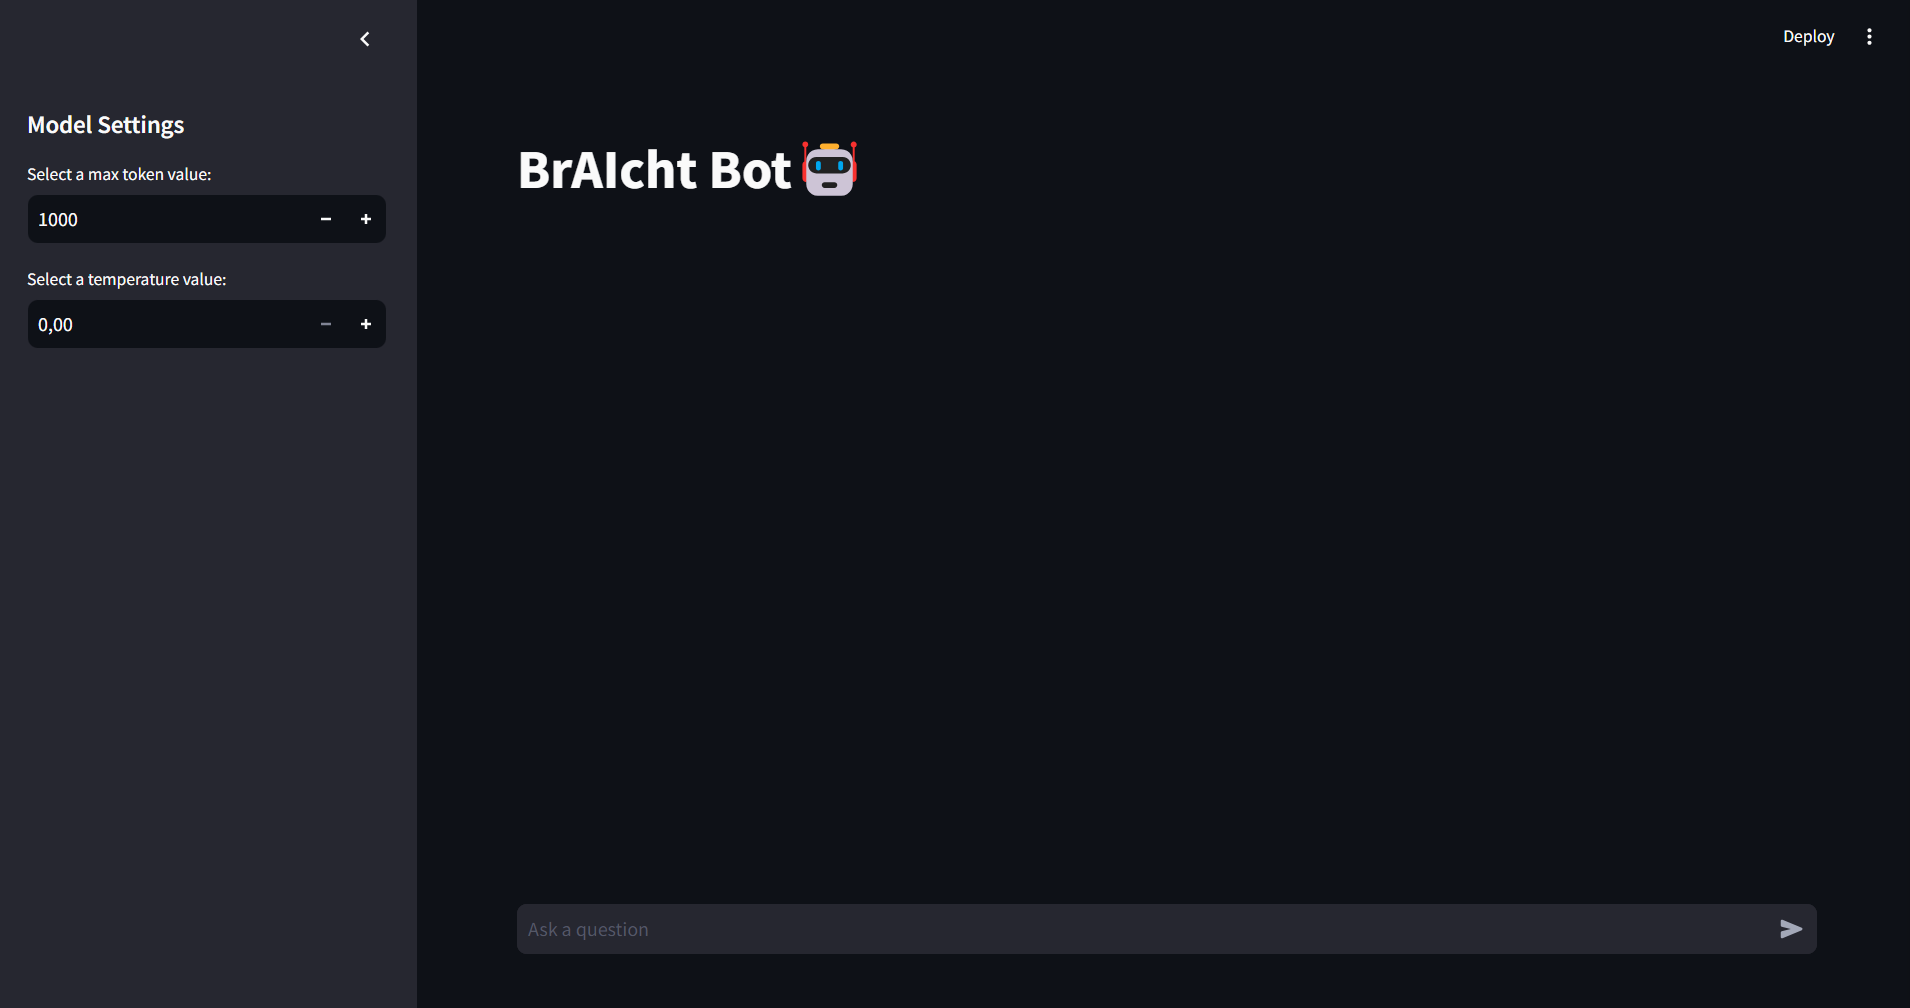
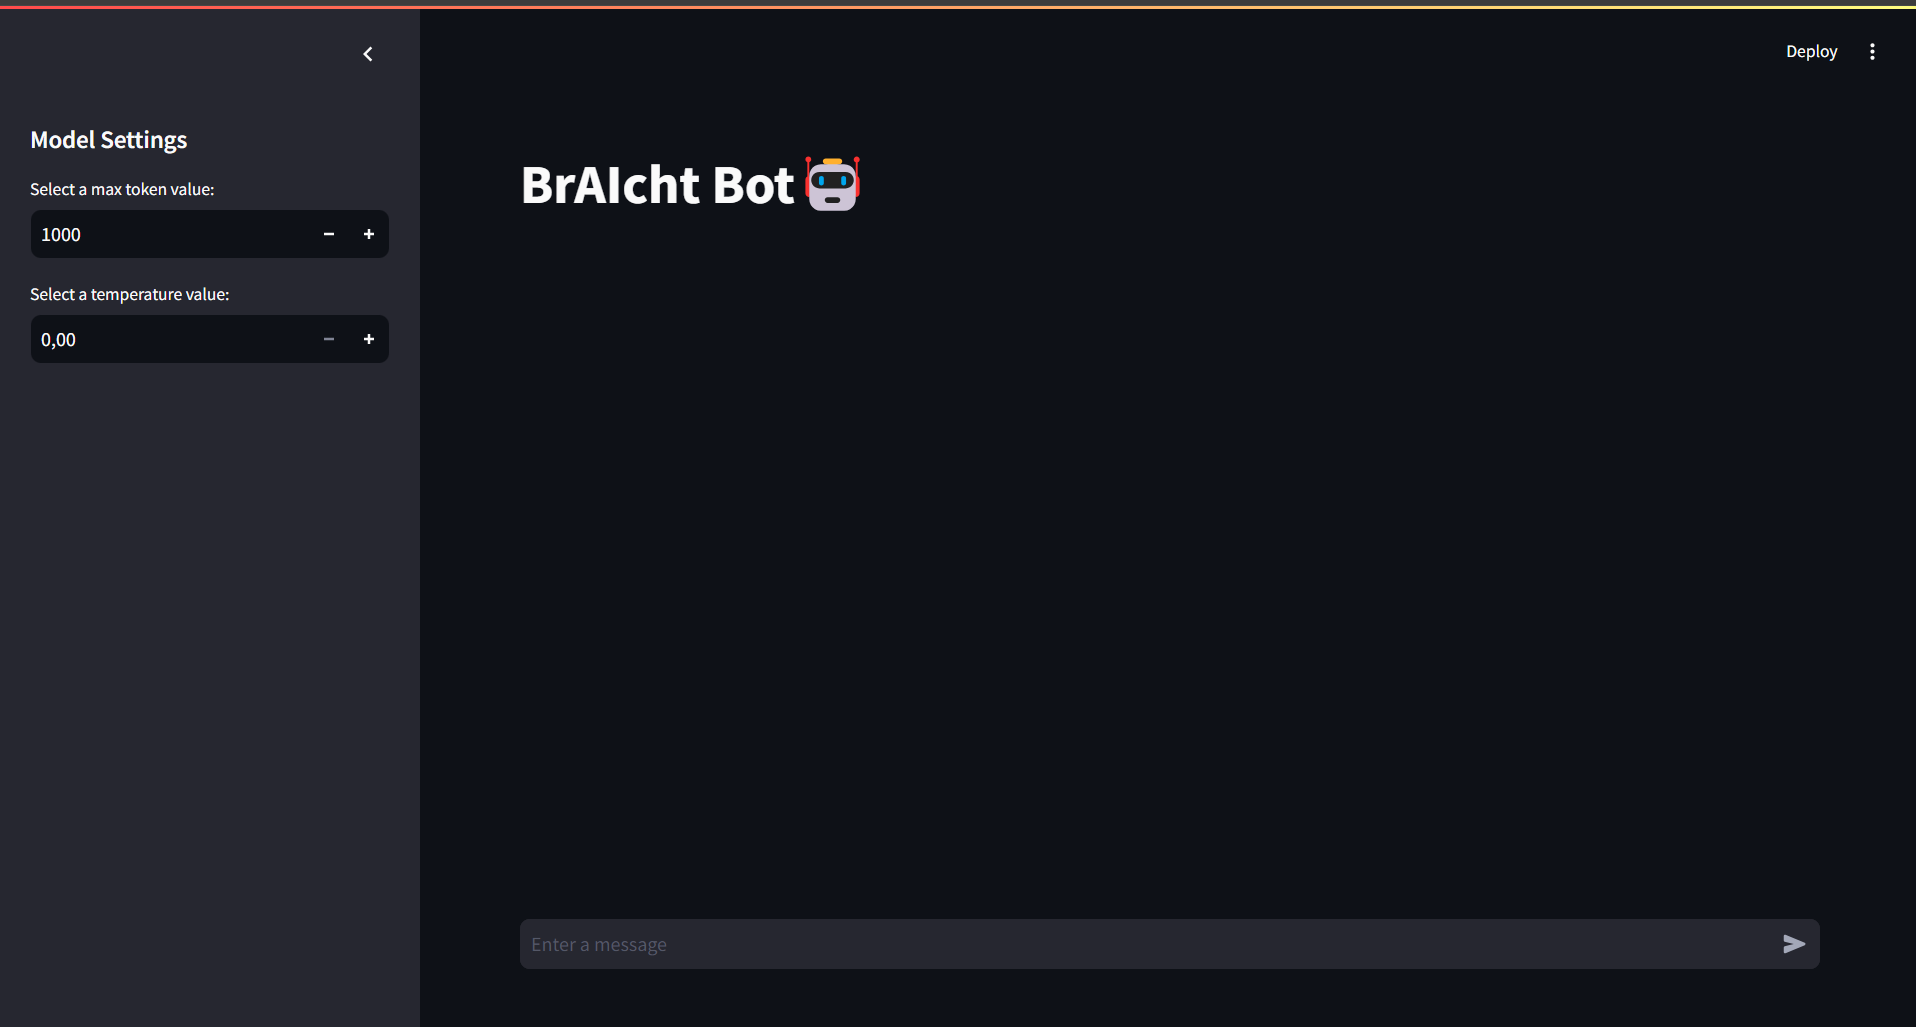
update

diff --git a/main.py b/main.py
@@ -71,7 +71,7 @@ def main():
     retriever = extract_data_and_create_retriever()
 
     # Capture user input for questions
-    if question := st.chat_input("Ask a question"):
+    if question := st.chat_input("Enter a message"):
         
         # Store the user's question in the session messages
         st.session_state.messages.append({"role": "user", "content": question})
